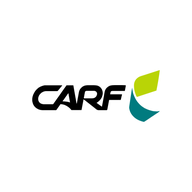
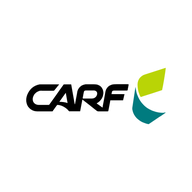
Ícone da app: logotipo CARF maior, a partir do ficheiro original
Claude-Session: https://claude.ai/code/session_01D5E8FrQJNavFsBfkHFqE6Z

Changed region(s): [[0.125, 0.3438, 0.875, 0.6562]]

diff --git a/sw.js b/sw.js
@@ -1,4 +1,4 @@
-const CACHE="carf-v2";
+const CACHE="carf-v3";
 const FILES=["./","index.html","pneus.html","manifest.webmanifest","icon-192.png","icon-512.png"];
 self.addEventListener("install",e=>{e.waitUntil(caches.open(CACHE).then(c=>c.addAll(FILES)).then(()=>self.skipWaiting()));});
 self.addEventListener("activate",e=>{e.waitUntil(caches.keys().then(ks=>Promise.all(ks.filter(k=>k!==CACHE).map(k=>caches.delete(k)))).then(()=>self.clients.claim()));});
